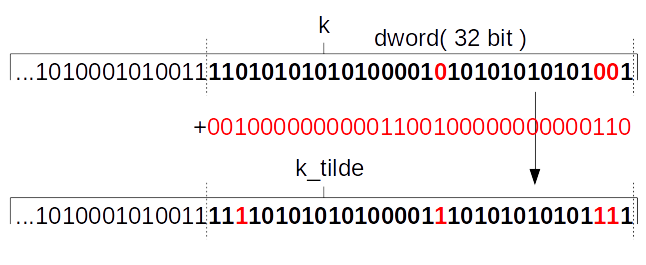
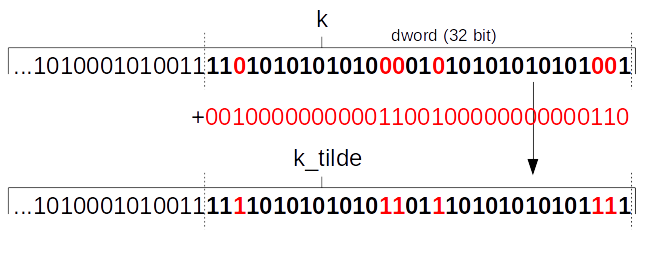
fixed an image and added timing consideration

diff --git a/doc/crypto_report.tex b/doc/crypto_report.tex
@@ -524,10 +524,11 @@ We have considered two scenario for each key length
 \caption{\label{f_etichetta}Attack2, bit level with the worst scenario }
 \end{figure}
 
+The times are taken using the C function \texttt{clock\_t clock(void)} that returns the sum of user and system time. On our 32 bits system it give a maximum possible precision of 1$\mu$s.
 
 \subsection{Damage the exponentation}
-\begin{itemize}
-\item In this attack the distincton between bit level and byte level has no meaning because the time complexity is always O(1) regardless the type of the fault injected. 
+
+In this attack the distincton between bit/byte/WORD/DWORD/QWORD level has no meaning because the time complexity is always O(1) regardless the type of the fault injected. 
 
 These are the average time necessary in order to complete the attack and so retreive the private key:
 
@@ -535,50 +536,41 @@ These are the average time necessary in order to complete the attack and so retr
 \begin{tabular}{l*{6}{c}r}
 Key length        & Time [ms] \\
 \hline
-1024/160 &       2.241930  \\
-2048/224 &       7.508261  \\
-2048/256 &       8.846499  \\
-3072/256 &      16.900461 \\ 
+1024/160 &       2.241  \\
+2048/224 &       7.508  \\
+2048/256 &       8.846  \\
+3072/256 &      16.900 \\ 
 \end{tabular}
 \end{center}
-
-\end{itemize}
 
 
 \subsection{Damage the signature composition}
-\begin{itemize}
 
-These are the average time necessary in order to complete the attack, at the bit level, in order to retreive the private key:\\
-
-\item Bit level:
+These are the average time necessary in order to complete the attack, at the \textbf{bit level}, in order to retreive the private key:\\
 
 \begin{center}
 \begin{tabular}{l*{6}{c}r}
 Key length        & Optimal case [ms] & Worst case [ms] \\
 \hline
-1024/160 &        4.953000 & 295.578003  \\
-2048/224 &       14.788000 & 1547.551025  \\
-2048/256 &       15.799001 & 2021.688965  \\
-3072/256 &       28.413000 & 3562.698975  \\ 
+1024/160 &        4.953 & 295.578  \\
+2048/224 &       14.788 & 1547.551  \\
+2048/256 &       15.799 & 2021.688  \\
+3072/256 &       28.413 & 3562.698 \\ 
 \end{tabular}
 \end{center}
 
-These are the average time necessary in order to complete the attack, at the byte level, in order to retreive the private key:\\
-
-\item Byte level:
+These are the average time necessary in order to complete the attack, at the \textbf{byte level}, in order to retreive the private key:\\
 
 \begin{center}
 \begin{tabular}{l*{6}{c}r}
 Key length        & Optimal case [ms] & Worst case [ms] \\
 \hline
-1024/160 &        132.716995 & 75677.210938  \\
-2048/224 &        479.232025 & 290135.656250  \\
-2048/256 &       555.675049  & 447803.687500  \\
-3072/256 &       972.052002  & 841949.000000  \\ 
+1024/160 &        132.716 & 75677.210  \\
+2048/224 &        479.232 & 290135.656  \\
+2048/256 &       555.675  & 447803.687  \\
+3072/256 &       972.052 & 841949.000  \\ 
 \end{tabular}
 \end{center}
-
-\end{itemize}
 
 \section{Limits}
 As presented before, in order to work the attacks presented need the parameters \textit{r} and \textit{s}, and two signatures ( the correct one and the faulty one ) of the same message \textit{m}; all this parameters are sent in plain over the untrusted channel, in fact \textit{r} and \textit{s} represent the signature sent and \textit{m} is the message to be verified ( with the dsa verify algorithm ) against the signature.\\
